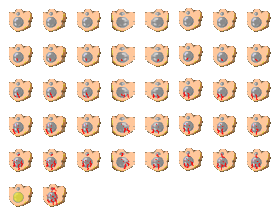
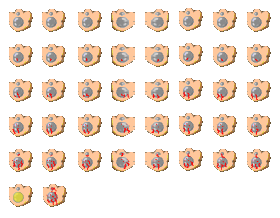
Glance faces: the whole head moves again (as before), in lumps made a pixel wider each side so nothing is cut off; painted sheets restored (hand painting kept)
Claude-Session: https://claude.ai/code/session_01MKYPiXjLXG3pak6qhsPgCd

diff --git a/tests/Engine.Tests/FaceTests.cs b/tests/Engine.Tests/FaceTests.cs
@@ -138,7 +138,9 @@ namespace ManagedDoomTest
                     Assert.IsTrue(wad.GetLumpNumber(name) != -1, name + " is not a lump the game has: the list of names is wrong");
                     var original = Patch.FromWad(wad, name);
                     var ours = Patch.FromData(name, data);
-                    Assert.AreEqual((original.Width, original.Height, original.LeftOffset, original.TopOffset), (ours.Width, ours.Height, ours.LeftOffset, ours.TopOffset), name);
+                    // at the game's own size, except the two glances, which are a pixel wider each side so that a head moved a pixel is not cut off
+                    var wanted = FaceFactory.LumpSpec(name, new PatchSpec(original.Width, original.Height, original.LeftOffset, original.TopOffset));
+                    Assert.AreEqual((wanted.Width, wanted.Height, wanted.Left, wanted.Top), (ours.Width, ours.Height, ours.LeftOffset, ours.TopOffset), name);
                 }
                 // and the other way: every face the game draws (the engine's own list, StatusBarRenderer.cs:461-475) is one of ours
                 var drawn = new List<string>();
@@ -252,16 +254,16 @@ namespace ManagedDoomTest
                     Assert.IsFalse(double.IsNaN(eyes), "the test portrait's eyes are found");
                     Assert.IsTrue(EyeColumn(left, palette) > eyes + 1.5, $"level {level}: the turn-left picture has the eyes slid right ({eyes:0.0} to {EyeColumn(left, palette):0.0})");
                     Assert.IsTrue(EyeColumn(right, palette) < eyes - 1.5, $"level {level}: and the turn-right picture, its mirror, has them slid left ({eyes:0.0} to {EyeColumn(right, palette):0.0})");
-                    // the glances do not cut anything off: the same columns of the screen are covered as by the straight face, and the eyes have moved a little
-                    var straightColumns = OnScreen(straight).Keys.Select(k => k.U).Distinct().OrderBy(u => u).ToList();
+                    // the glances move the whole head one pixel to the side and cut nothing off: the same number of pixels, the same shape, one column over
+                    var straightMap = OnScreen(straight);
                     foreach (var (look, direction) in new[] { ("STFST" + level + "1", -1), ("STFST" + level + "2", 1) })
                     {
                         var glance = Lump(faces, look);
-                        var shown = OnScreen(glance).Count;
-                        Assert.IsTrue(Math.Abs(whole - shown) <= 6, $"{look} covers {shown} pixels, the straight face {whole}");
-                        Assert.IsTrue(OnScreen(glance).Keys.Select(k => k.U).Distinct().OrderBy(u => u).SequenceEqual(straightColumns), $"{look} keeps the head's whole width: nothing cut off on either side");
+                        var glanceMap = OnScreen(glance);
+                        Assert.AreEqual(whole, glanceMap.Count, $"{look} has all {whole} pixels of the head");
+                        Assert.IsTrue(straightMap.All(kv => glanceMap.TryGetValue((kv.Key.U + direction, kv.Key.V), out var c) && c == kv.Value), $"{look} is the straight face moved one pixel {(direction < 0 ? "left" : "right")}, unchanged");
                         var moved = EyeColumn(glance, palette) - eyes;
-                        Assert.IsTrue(direction * moved > 0.3 && direction * moved < 2.5, $"{look}: the eyes move about a pixel the way it looks ({moved:0.0})");
+                        Assert.IsTrue(direction * moved > 0.8 && direction * moved < 1.2, $"{look}: the eyes are a pixel over ({moved:0.0})");
                     }
                 }
             }
@@ -522,6 +524,48 @@ namespace ManagedDoomTest
                 Assert.IsTrue(message.Contains("wide") && message.Contains(sheet.Width.ToString()) || message.Contains("must be"), "the message says what size it should be: " + message);
             }
         }
+
+        [TestMethod]
+        public void ThePaintedFacesInTheRepoAreWholeAndReadBackWithNothingCutOff()
+        {
+            var folder = Path.GetFullPath("../../assets");
+            var sheets = Directory.GetFiles(folder, "*-faces.png");
+            Assert.IsTrue(sheets.Length >= 6, "a painted sheet for each of the six characters");
+            var (spec, palette, wad) = (default(Func<string, PatchSpec>), default(DoomPalette), new Wad(WadPath.Doom1Shareware));
+            using (wad)
+            {
+                palette = new DoomPalette(wad.ReadLump("PLAYPAL"));
+                spec = name => { var p = Patch.FromWad(wad, name); return new PatchSpec(p.Width, p.Height, p.LeftOffset, p.TopOffset); };
+                foreach (var path in sheets)
+                {
+                    var (width, height, data) = Png.Load(path);
+                    Assert.AreEqual((280, 218), (width, height), Path.GetFileName(path) + " is the size of a face sheet");
+                    bool Opaque(int row, int col, int u, int v) => data[4 * ((FaceFactory.SheetMargin + row * FaceFactory.SheetCellHeight + v) * width + FaceFactory.SheetMargin + col * FaceFactory.SheetCellWidth + u) + 3] >= 128;
+                    var imported = FaceSheetImport.Read(new Rgba(width, height, data), spec, palette).ToDictionary(l => l.Name, l => l.Data);
+                    for (var row = 0; row < 5; row++)
+                    {
+                        int[] Extent(int col)
+                        {
+                            var us = Enumerable.Range(0, FaceFactory.SheetCellWidth).Where(u => Enumerable.Range(0, FaceFactory.SheetCellHeight).Any(v => Opaque(row, col, u, v))).ToArray();
+                            return new[] { us.Min(), us.Max() };
+                        }
+                        var straight = Extent(0);
+                        // the head that looks left is the straight head moved one pixel left, whole: not a column narrower
+                        CollectionAssertEqual(new[] { straight[0] - 1, straight[1] - 1 }, Extent(1), $"{Path.GetFileName(path)} row {row}: the face that looks left");
+                        CollectionAssertEqual(new[] { straight[0] + 1, straight[1] + 1 }, Extent(2), $"{Path.GetFileName(path)} row {row}: the face that looks right");
+                        // and what the engine reads back has every painted pixel of the cell (nothing falls outside the lump)
+                        for (var col = 0; col < 3; col++)
+                        {
+                            var painted = Enumerable.Range(0, FaceFactory.SheetCellWidth).Sum(u => Enumerable.Range(0, FaceFactory.SheetCellHeight).Count(v => Opaque(row, col, u, v)));
+                            var read = OnScreen(imported["STFST" + row + col]).Count;
+                            Assert.AreEqual(painted, read, $"{Path.GetFileName(path)} row {row} column {col + 1}: the lump holds all of the painted face");
+                        }
+                    }
+                }
+            }
+        }
+
+        private static void CollectionAssertEqual(int[] expected, int[] actual, string message) => Assert.IsTrue(expected.SequenceEqual(actual), $"{message}: expected {string.Join("..", expected)}, got {string.Join("..", actual)}");
 
         [TestMethod]
         public void WritesTheOriginalDoomguySheetsToLookAt()

diff --git a/src/Host/FaceFactory.cs b/src/Host/FaceFactory.cs
@@ -91,6 +91,17 @@ internal static class FaceFactory
 		return list;
 	}
 
+	/// <summary>
+	/// The size and corner a face lump is made with. The game's own straight faces are exactly as wide as the head, so a head that looks to one side (moved
+	/// a pixel) would lose a column of itself at the edge it moves toward. So the two glances (STFST<i>n</i>1 and STFST<i>n</i>2) are made one pixel wider on each
+	/// side than the game's; the picture is drawn in the same place on the screen. Used when the faces are made and when a painted sheet is read.
+	/// </summary>
+	public static PatchSpec LumpSpec(string name, PatchSpec original)
+	{
+		var glance = name.Length == 7 && name.StartsWith("STFST", StringComparison.Ordinal) && (name[6] == '1' || name[6] == '2');
+		return glance ? new PatchSpec(original.Width + 2, original.Height, original.Left + 1, original.Top) : original;
+	}
+
 	/// <summary>The lump whose size and corner define the "canonical" face: the normal straight-ahead look at full health.</summary>
 	private const string ReferenceFace = "STFST00";
 
@@ -110,15 +121,7 @@ internal static class FaceFactory
 		foreach (var (name, kind, pain) in Faces)
 		{
 			var shaded = Shade(baseImage, kind, pain, settings);
-			var s = spec(name);
-			if (kind == FaceKind.Straight1 || kind == FaceKind.Straight2)
-			{
-				// the glances slide what is inside the head a little to one side and leave its outline where it is (moving the whole head would cut a column off
-				// the side it moves toward, the straight faces have no spare room)
-				var glanced = Quantize(TurnHead(shaded, kind == FaceKind.Straight1 ? -GlanceAmount : GlanceAmount, reference, s), palette);
-				lumps.Add((name, DoomPatch.Encode(s.Width, s.Height, s.Left, s.Top, glanced)));
-				continue;
-			}
+			var s = LumpSpec(name, spec(name));
 			if (kind == FaceKind.TurnLeft || kind == FaceKind.TurnRight)
 			{
 				// The turned head is drawn straight into the turn-left lump's own rectangle (wider than the straight faces, to hold the turned head). The turn right
@@ -151,13 +154,16 @@ internal static class FaceFactory
 	}
 
 	/// <summary>
-	/// How far a look moves the face, in pixels: only "ouch" moves it (up one pixel; its lump has the room). The glances and the turns slide what is inside the head
-	/// (<see cref="TurnHead"/>) and leave its outline, so no column of the head is ever cut off.
+	/// How far a look moves the face, in pixels: the glances move the whole head one pixel to the side (their lumps are made two pixels wider than the game's, see
+	/// <see cref="LumpSpec"/>, so no column of the head is cut off) and "ouch" moves it up one (its lump has the room). The turns slide what is inside the head
+	/// (<see cref="TurnHead"/>) and leave its outline.
 	/// </summary>
 	private static (int Dx, int Dy) LookShift(FaceKind kind, int roomLeft, int roomRight)
 	{
 		switch (kind)
 		{
+			case FaceKind.Straight1: return (-1, 0);
+			case FaceKind.Straight2: return (1, 0);
 			case FaceKind.Ouch: return (0, -1);
 			default: return (0, 0);
 		}
@@ -350,9 +356,6 @@ internal static class FaceFactory
 		}
 		return pixels;
 	}
-
-	/// <summary>How far the features slide in the two glancing faces (columns 2 and 3): about a pixel, as a fraction of half the head's width.</summary>
-	private const double GlanceAmount = 0.1;
 
 	/// <summary>How far the features of the turning faces move toward the side they turn to, as a fraction of half the head's width (0 = not at all, 0.5 = the most possible).</summary>
 	private const double TurnAmount = 0.35;
@@ -575,7 +578,7 @@ internal static class FaceSheetImport
 			for (var col = 0; col < rows[row].Count; col++)
 			{
 				var name = rows[row][col];
-				var s = spec(name);
+				var s = FaceFactory.LumpSpec(name, spec(name));
 				var pixels = new int[s.Width * s.Height];
 				for (var py = 0; py < s.Height; py++)
 				{

diff --git a/tests/Engine.Tests/Png.cs b/tests/Engine.Tests/Png.cs
@@ -7,6 +7,54 @@ namespace ManagedDoomTest
 {
     public static class Png
     {
+        /// <summary>Reads an 8-bit RGBA PNG without interlacing (what the game's editor and this repo's pictures are): width, height, and 4 bytes a pixel.</summary>
+        public static (int Width, int Height, byte[] Rgba) Load(string path)
+        {
+            var bytes = File.ReadAllBytes(path);
+            int width = 0, height = 0, position = 8;
+            var data = new MemoryStream();
+            while (position < bytes.Length)
+            {
+                var length = (bytes[position] << 24) | (bytes[position + 1] << 16) | (bytes[position + 2] << 8) | bytes[position + 3];
+                var type = System.Text.Encoding.ASCII.GetString(bytes, position + 4, 4);
+                if (type == "IHDR")
+                {
+                    width = (bytes[position + 8] << 24) | (bytes[position + 9] << 16) | (bytes[position + 10] << 8) | bytes[position + 11];
+                    height = (bytes[position + 12] << 24) | (bytes[position + 13] << 16) | (bytes[position + 14] << 8) | bytes[position + 15];
+                    if (bytes[position + 16] != 8 || bytes[position + 17] != 6 || bytes[position + 20] != 0) throw new NotSupportedException("only 8-bit RGBA without interlacing");
+                }
+                else if (type == "IDAT") data.Write(bytes, position + 8, length);
+                position += 12 + length;
+            }
+            data.Position = 0;
+            var raw = new MemoryStream();
+            using (var z = new ZLibStream(data, CompressionMode.Decompress)) z.CopyTo(raw);
+            var source = raw.ToArray();
+            var stride = width * 4;
+            var rgba = new byte[height * stride];
+            for (var y = 0; y < height; y++)
+            {
+                var filter = source[y * (stride + 1)];
+                for (var x = 0; x < stride; x++)
+                {
+                    int a = x >= 4 ? rgba[y * stride + x - 4] : 0, b = y > 0 ? rgba[(y - 1) * stride + x] : 0, c = x >= 4 && y > 0 ? rgba[(y - 1) * stride + x - 4] : 0;
+                    int value = source[y * (stride + 1) + 1 + x], add;
+                    switch (filter)
+                    {
+                        case 1: add = a; break;
+                        case 2: add = b; break;
+                        case 3: add = (a + b) / 2; break;
+                        case 4:
+                            int p = a + b - c, pa = Math.Abs(p - a), pb = Math.Abs(p - b), pc = Math.Abs(p - c);
+                            add = pa <= pb && pa <= pc ? a : pb <= pc ? b : c; break;
+                        default: add = 0; break;
+                    }
+                    rgba[y * stride + x] = (byte)(value + add);
+                }
+            }
+            return (width, height, rgba);
+        }
+
         public static void Save(string path, int width, int height, byte[] rgba)
         {
             Directory.CreateDirectory(Path.GetDirectoryName(Path.GetFullPath(path)));

diff --git a/CLAUDE.md b/CLAUDE.md
@@ -29,7 +29,7 @@ Read `SESSION_SETUP.md` from the standards repo `epilimic/modding-standards` (ad
 - **Tests:** `dotnet run --project tests/Engine.Tests -c Release` (needs the Freedoom WAD files, see `tests/Engine.Tests/README.md`). It runs the engine, the keyboard and mouse input, the sound effects and the music without the game. Run it after any change under `src/Host` or the engine.
 - **No custom Godot classes:** a dll-only mod cannot register scripts, so nothing can subclass a Godot node and override `_Process` or `_Input`. Wire behaviour with signals instead (see `src/DoomView.cs`).
 - **The monitor frame is live-tunable.** `src/Host/CrtLayout.cs` (`CrtTuning`) holds the numbers that place the old-monitor picture (`assets/crt.png`) and the game on its glass, marked with the `[Tunable]` attribute the VfxSpawner mod (`epilimic/VfxSpawner`) looks for by name. In a run: F9, Show tuner, group "Doomed Spire CRT frame"; "Copy values" gives the numbers to paste back as the new defaults. DOOM steps aside while a canvas layer at or above 100 is showing something (VfxSpawner's menu is on 128), so the mouse and keys are the tuner's (`DoomView.ToolIsOpenOnTop`). The picture's own measurements (glass at 78,78 and 692 x 535 in its 848 x 744 pixels) are in `CrtPicture`; if the picture is replaced, measure it again.
-- **The status-bar face is the player's character, made at run time.** `PlayerFace.cs` reads the character's picture from the game (never stored in the mod), `src/Host/FaceFactory.cs` makes DOOM's 42 faces from it (5 health levels x looks, ouch, grin, rampage, plus god and dead), and they go to the engine as an add-on WAD (`face.wad` in the mod's `data` folder) loaded on top of the game, which overrides Doomguy's lumps (`DoomSession.Create(..., extraWads)`). Its numbers are tunable like the monitor's (VfxSpawner group "Doomed Spire face", `FaceTuning`), taking effect when a new game starts; `face-sheet.png` next to `face.wad` shows all 42 for a look. The owner can paint over the faces: the mod writes `<character>-faces-to-paint.png` (transparent, 1:1, one colour for every face and never any blood: `FaceSettings.Neutral`; the turn left column has the head turned by `TurnHead`, and turn right is its mirror image, `Mirror`) for every playable character (`WriteSheetsToPaint`), and reads back `<character>-faces-painted.png` from the data folder if it exists, else the sheet baked into the dll, `assets/<character>-faces.png` (`FaceSheetImport`, `BuiltInSheet`); `docs/FACES.md` has the layout, the health-level mapping and the steps. The original face pictures differ in size, so one face is drawn once and placed in each lump's own rectangle (see the comment on `FaceFactory.Build`). The same add-on-WAD route can carry other replacements (the planned STS enemy sprites).
+- **The status-bar face is the player's character, made at run time.** `PlayerFace.cs` reads the character's picture from the game (never stored in the mod), `src/Host/FaceFactory.cs` makes DOOM's 42 faces from it (5 health levels x looks, ouch, grin, rampage, plus god and dead), and they go to the engine as an add-on WAD (`face.wad` in the mod's `data` folder) loaded on top of the game, which overrides Doomguy's lumps (`DoomSession.Create(..., extraWads)`). Its numbers are tunable like the monitor's (VfxSpawner group "Doomed Spire face", `FaceTuning`), taking effect when a new game starts; `face-sheet.png` next to `face.wad` shows all 42 for a look. The owner can paint over the faces: the mod writes `<character>-faces-to-paint.png` (transparent, 1:1, one colour for every face and never any blood: `FaceSettings.Neutral`; the turn left column has the head turned by `TurnHead`, and turn right is its mirror image, `Mirror`) for every playable character (`WriteSheetsToPaint`), and reads back `<character>-faces-painted.png` from the data folder if it exists, else the sheet baked into the dll, `assets/<character>-faces.png` (`FaceSheetImport`, `BuiltInSheet`); `docs/FACES.md` has the layout, the health-level mapping and the steps. The original face pictures differ in size, so one face is drawn once and placed in each lump's own rectangle (see the comment on `FaceFactory.Build`). The two glance faces (`STFST?1`, `STFST?2`) are the whole head moved one pixel left or right, and their lumps are made one pixel wider each side than the game's (`FaceFactory.LumpSpec`, used when making faces and when reading a painted sheet) so nothing is cut off; sliding only what is inside the head instead was tried and looked like two faces, one still and one moving, so do not do that. The same add-on-WAD route can carry other replacements (the planned STS enemy sprites).
 - **STS enemies replace DOOM's monsters, original DOOM 1 games only** (`MonsterSprites.IsOriginalDoom1`: E1M1, no MAP01, none of Freedoom's lumps; DOOM II, Freedoom and every other game keep their monsters). The owner chose each enemy (`EnemySprites.Replacements`, fixed, no randomness; the spectre is the demon's enemy because it is the demon's pictures drawn fuzzy): zombieman = ThievingHopper, shotgun guy = Fogmog, imp = Exoskeleton, demon = Axebot, baron = SkulkingColony, lost soul = TheLost, cacodemon = SewerClam, cyberdemon = KnowledgeDemon (Entomancer was the other candidate; the owner chose KnowledgeDemon after trying them all out by temporarily swapping them into the first levels). Only the living poses (walk, stand, attack, hurt) get the enemy; when it dies it turns into DOOM's own gibs (the owner did not want the enemy's death pose or DOOM's normal corpse): the dying and gibbed frames are eight variations of DOOM's gib animations (the player's, imp's, zombieman's and shotgun guy's, from the engine's state tables, `MonsterSprites.GibAnimations`, `MonsterSpriteBuilder.DeathLumps`), the last frame being the heap that stays; the first two frames of each animation (the creature itself, then its body in pieces) are left out (`FramesBeforeTheBits`) because the owner does not want to see the original monster at all. A corpse's variation is fixed by where the monster was placed (`CorpseVariant`); this needed **one change in the vendored engine**, in `Video/ThreeDRenderer.cs` (marked "DoomedSpire change", listed in `src/ManagedDoom/SOURCE.md`): a corpse picks its picture by that instead of by the side it is seen from. A monster the game data lacks (the shareware game has no lost soul, cacodemon, cyberdemon or spider) is skipped. `src/Host/MonsterSprites.cs` (Godot-free, tested) reads the engine's state tables to say which frame letter is walk, attack, hurt, death or gib, picks a pose for each, and turns captured pictures into sprite lumps named `TROOA0` (rotation 0 = the one picture from every side), all scaled by one amount to the monster's own height and standing on the floor. `src/EnemyCapture.cs` takes the pictures: the enemy's `CreateVisuals()` scene in an off-screen transparent `SubViewport`, held at a moment of an animation (`idle_loop`, `attack`, `hurt`; the game's own names, and failing the exact name one that starts with the same word, `MonsterSprites.ChooseAnimation`: the Knowledge Demon has `attack_light/medium/heavy` and no `attack`; what a creature has is logged when something is missing) after doing what the game does to make a creature's body appear (`SetUpSkin` and `UpdatePhobiaMode`: the Skulking Colony's body is in a skin the game chooses, and was mostly invisible without it), by setting the track time with the state's time scale at 0, read back after `RenderingServer.FramePostDraw` (the pattern of `CreatureAnimator` and `NMapShareButton`). The result is `enemies.wad` (between `S_START` and `S_END`, which is the only place the engine reads sprites from; the last file wins) loaded with the faces. Each frame is given the five lumps `TROOA1`, `A2A8`, `A3A7`, `A4A6`, `A5` (the enemy faces left, so DOOM's sides 2-4 show it as it is and sides 6-8 the mirrored lump, so it faces the way it walks; the picture is cut symmetrically about the standing point so the mirrored one stands in the same place). Starting a game is `async` (`DoomView.BeginGame`) because the pictures take several frames. **Speed and safety:** the finished `enemies.wad` is kept with `enemies.key` (game version from `ReleaseInfoManager`, this build's module id, the DOOM game's name and size, who plays whom) and reused while the key matches and every enemy was drawn, so only the first start after a game or mod update draws anything (delete `enemies.key` to force it); every wait in `EnemyCapture` has a 5 second limit (a hidden or minimized window never draws), the whole job 30 seconds, and what could not be drawn keeps DOOM's picture; if the game will not start with the add-on WADs it starts again without them (`DoomView.BeginGame`). The sheets to paint are likewise only rewritten when the game version, this build or the face numbers change (`to-paint.key`). `DoomPalette.Nearest` remembers its answers. A pose that is much taller than the standing one, or far to the side or in the air (`MonsterSprites.IsJumpy`: the Sewer Clam rears up to 151% of its height a quarter of the way into its attack) is retaken at later moments of the animation, up to four steps of 0.1, until it is not. Log tag `enemy`; each enemy also logs one "poses" line (width, height, how far lifted and off centre, as % of the first pose) to find poses that jump about. The owner has seen the enemies working in the game (the clam's jump is fixed, the Skulking Colony renders with its skin).
 - **The engine's tables are put back before every game** (`src/Host/EngineBaseline.cs`, called from `DoomSession.Create` and at the start of `EnemySprites.TryBuildAsync`): the engine keeps the monsters, weapons and texts in static fields and a game with a DeHackEd patch (Freedoom) changes them in place for good, so the next game in the same run would play with the first one's changes. **Engine changes so far** (each marked "DoomedSpire change", listed in `src/ManagedDoom/SOURCE.md`): the corpse picture in `ThreeDRenderer.cs`, and telling the game from its maps in `Wad.cs` (the engine only knew exact file names, so the built-in `doom1-shareware-1.9.wad` was "undetermined" and offered episodes that are not there, and a registered `doom.wad` was taken for the Ultimate DOOM and failed on the missing picture `M_EPI4`).
 - The mod's own gotchas go here.

diff --git a/docs/FACES.md b/docs/FACES.md
@@ -38,7 +38,7 @@ Every health row has columns 1 to 8, so the same expression exists at all five l
 Everything below is in the mod's data folder: `~/.local/share/SlayTheSpire2/DoomedSpire/data/`. The pictures are made from the game's own art on your machine and are not in the repo; keep them out of it.
 
 1. Start a new game with DOOM (quit from DOOM's menu and open it again if one is paused). The mod writes `<character>-faces-to-paint.png` for **every playable character** (`ironclad`, `silent`, `regent`, `necrobinder`, `defect`, `fool`), not only the one in your run, for example `ironclad-faces-to-paint.png`.
-   It holds all 42 faces on a transparent background, one picture pixel per DOOM pixel (about 280 x 218), laid out as in the tables above: 5 rows of 8, then a row with the two last faces. **Every face is the same colour and none has any blood**: nothing changes with the health row or the expression (no paleness, redness or tints, not even for ouch, grin, god or dead). Only the head's position and angle differ, as in Doomguy's own faces: the turn left column has the head turned (the features slid to the right, the far side squeezed, the outline unchanged) and the turn right column is that same picture mirrored, ouch sits one pixel higher, and the two glance columns have what is inside the head slid about a pixel to the left and to the right (the outline stays, so nothing is cut off; the eyes only move that little, so paint them if you want them to glance properly). It is rewritten at every new game, so do not paint on this file.
+   It holds all 42 faces on a transparent background, one picture pixel per DOOM pixel (about 280 x 218), laid out as in the tables above: 5 rows of 8, then a row with the two last faces. **Every face is the same colour and none has any blood**: nothing changes with the health row or the expression (no paleness, redness or tints, not even for ouch, grin, god or dead). Only the head's position and angle differ, as in Doomguy's own faces: the turn left column has the head turned (the features slid to the right, the far side squeezed, the outline unchanged) and the turn right column is that same picture mirrored, ouch sits one pixel higher, and the two glance columns are the whole head moved one pixel to the left and to the right (the eyes do not move on their own, so paint them if you want them to glance; the two glance pictures are made one pixel wider each side than the game's own, so a moved head is not cut off, and a painted sheet may use that extra pixel). It is rewritten at every new game, so do not paint on this file.
 2. Paint on a copy, in an editor that can zoom right in (the faces are about 24 pixels wide) and that does not smooth or blur: pencil tools only. Keep the sheet's size.
 3. To try it out: save it in the same folder as `<character>-faces-painted.png` (`ironclad-faces-painted.png`). At the next new game the mod uses your sheet instead of the generated faces and says so in the log. Remove the file to go back.
 4. To ship it: put the sheet in the repo as `assets/<character>-faces.png` (for example `assets/fool-faces.png`) and build. It is baked into the dll and used for that character. A `<character>-faces-painted.png` in the data folder still wins over it (so delete that file once the built-in sheet is the one you want), and a character with neither gets the generated faces.
